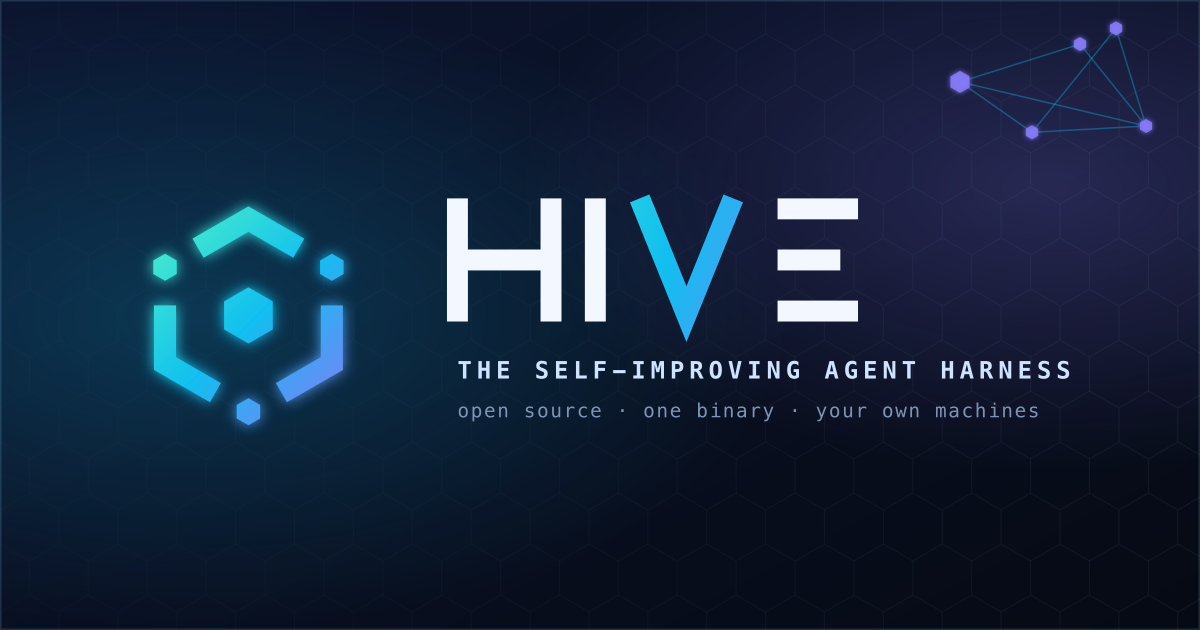
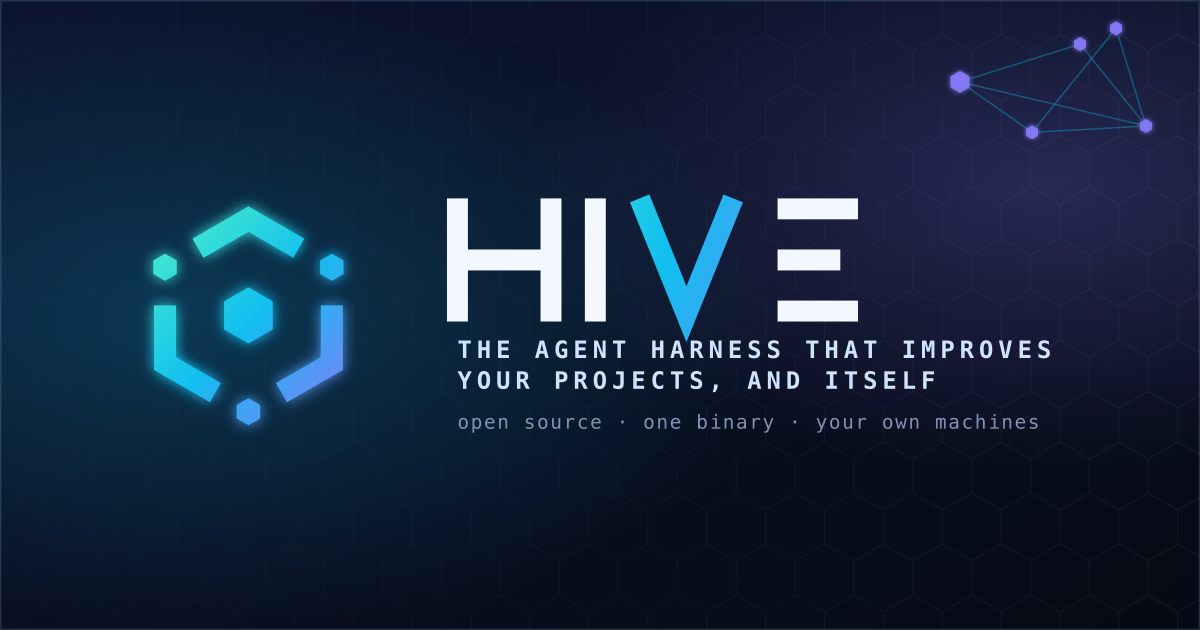
Say Hive improves the projects it works on, and name automations (TASK-127)
The opening of the README, the site and docs/faq.md / docs/concepts.md said
Hive "improves itself". It improves every project it works on, its own
source among them, and keeps standing work as automations.

- tagline: "The agent harness that improves your projects, and itself"
  (README, site hero, footer, home title, logo alt, brand.py lockup)
- the one sentence names tasks, automations and per-project improvement
- README "What Hive is" and the site's pillars name tasks, PR delivery,
  automations, role leads, self-improvement and many machines, each linking
  its page; the self-improvement block opens by saying the loop improves the
  project Hive works on and runs on Hive itself
- the site FAQ, /rsi/ description and docs/faq.md say the same
- scripts/brand.py draws the new two-row tagline; web/site/public/og.png
  regenerated. .github/assets/hive-logo.svg and social-preview.png are the
  owner's: run `python3 scripts/brand.py` and commit them.

Hive-Agent: vesper-90
Hive-Job: job-20261126T045615Z-ead54e
Hive-Executor: local

Changed region(s): [[0.37, 0.5429, 0.8942, 0.6937]]

diff --git a/web/site/src/app/page.tsx b/web/site/src/app/page.tsx
@@ -4,16 +4,18 @@ import {
   ArrowRightIcon,
   ArrowUpRightIcon,
   BookOpenIcon,
+  CalendarClockIcon,
   DatabaseIcon,
   DownloadIcon,
   GitPullRequestIcon,
   InboxIcon,
   LockIcon,
+  MessagesSquareIcon,
   NetworkIcon,
   RefreshCwIcon,
   ScaleIcon,
   ScrollTextIcon,
-  SquareTerminalIcon,
+  UserCogIcon,
 } from "lucide-react";
 import type { ReactNode } from "react";
 import { Frame } from "@/components/chrome";
@@ -32,16 +34,37 @@ export const metadata: Metadata = pageMetadata(PAGES.home);
 
 const PILLARS = [
   {
-    icon: SquareTerminalIcon,
-    title: "A harness of its own",
-    text: "Every agent runs on Hive's own harness: a tool loop with limits, deny rules, hooks, MCP servers, skills, helpers and sub-sessions. GitHub Copilot is the default model provider. OpenAI, Anthropic, Gemini and ten OpenAI-compatible vendors take a key, and local servers need none.",
-    href: PAGES.harness.path,
-    more: "How an agent runs",
+    icon: MessagesSquareIcon,
+    title: "Tasks as conversations",
+    text: "Write what you want in the console. The project's lead agent cuts it into steps and hands them to agents, and the whole task is one conversation you can steer.",
+    href: "/docs/how-to/tasks/",
+    more: "Give a task",
+  },
+  {
+    icon: GitPullRequestIcon,
+    title: "Pull requests with a reviewer",
+    text: "Each step runs in a throwaway clone and must pass the project's test command, when one is set. Finished work becomes a pull request that a review agent merges or hands to you.",
+    href: "/docs/how-to/pull-requests/",
+    more: "Review and merge",
+  },
+  {
+    icon: CalendarClockIcon,
+    title: "Automations",
+    text: "A project keeps its standing work as files under .hive/automations: schedules, checks, watches and skill runs. Every machine that tends the project applies the committed files.",
+    href: "/docs/how-to/schedules/",
+    more: "Run work on a schedule",
+  },
+  {
+    icon: UserCogIcon,
+    title: "Role leads",
+    text: "Give one concern of a project, such as its docs, its tests or its security, an agent of its own that looks after it on a cadence.",
+    href: "/docs/how-to/role-leads/",
+    more: "Seat role leads",
   },
   {
     icon: ScaleIcon,
     title: "Self-improvement under a constitution",
-    text: "Agents post suggestions and vote on them. When you turn the loop on, it builds the top voted one on an experiment branch, measures it and delivers what was kept as a pull request. The constitution is yours: hard stops, paths the loop may never touch, and a kill switch.",
+    text: "Hive improves each project it works on, and runs the same loop on its own source. Agents post suggestions and vote on them. When you turn the loop on, it builds the top voted one on an experiment branch, measures it and delivers what was kept as a pull request. The constitution is yours: hard stops, paths the loop may never touch, and a kill switch.",
     href: PAGES.rsi.path,
     more: "How the loop works",
   },
@@ -186,7 +209,7 @@ export default function Home() {
             <HiveMark className="mark-sweep mark-glow size-16 sm:size-20" draw />
             <p className="mt-8 font-mono text-xs font-medium tracking-[0.18em] text-teal uppercase">Open source · MIT · macOS, Linux and WSL</p>
             <h1 id="hero-title" className="mt-4 text-[2.3rem] leading-[1.08] font-semibold tracking-tight text-balance sm:text-6xl sm:leading-[1.05]">
-              The <span className="text-brand whitespace-nowrap">self-improving</span> agent harness.
+              The agent harness that <span className="text-brand">improves your projects</span>, and itself.
             </h1>
             <p className="mt-6 max-w-xl text-lg leading-relaxed text-pretty text-muted-foreground">{SITE.sentence}</p>
             <div className="mt-8 max-w-xl">
@@ -245,13 +268,17 @@ export default function Home() {
         <div className="mx-auto max-w-6xl px-5 py-20 sm:px-8">
           <div className="max-w-2xl">
             <Eyebrow>What it is</Eyebrow>
-            <Heading id="pillars-title">Three things in one binary.</Heading>
+            <Heading id="pillars-title">One binary for the whole of a project&apos;s work.</Heading>
             <p className="mt-4 text-pretty text-muted-foreground">
-              Hive is one binary (<code className="font-mono text-[0.9em]">hive</code>), one SQLite file and one console. You give a project&apos;s lead agent a
-              task and watch the agents work on it.
+              Hive is one binary (<code className="font-mono text-[0.9em]">hive</code>), one SQLite file and one console. Every agent runs on{" "}
+              <Link href={PAGES.harness.path} className="link">
+                Hive&apos;s own harness
+              </Link>
+              : a tool loop with limits, deny rules, hooks, MCP servers, skills, helpers and sub-sessions, on GitHub Copilot by default, a key for another
+              provider, or a local server.
             </p>
           </div>
-          <ul className="mt-12 grid gap-5 lg:grid-cols-3">
+          <ul className="mt-12 grid gap-5 sm:grid-cols-2 lg:grid-cols-3">
             {PILLARS.map((p) => (
               <li key={p.title} className="flex flex-col rounded-card border border-border bg-card p-6 shadow-card">
                 <span className="hex inline-flex h-11 w-[2.4rem] items-center justify-center bg-teal-soft text-teal">

diff --git a/web/site/src/lib/site.ts b/web/site/src/lib/site.ts
@@ -8,10 +8,10 @@ export const SITE = {
   domain: "hivefleet.dev",
   url: "https://hivefleet.dev",
   /** The category line. */
-  tagline: "The self-improving agent harness",
+  tagline: "The agent harness that improves your projects, and itself",
   /** The one sentence every package uses. */
   sentence:
-    "Hive is an open-source harness for coding agents. It runs on your own machine as one binary, improves itself under rules you write, and pairs more machines when the work needs them.",
+    "Hive is an open-source harness for coding agents. It runs on your own machine as one binary. It does the tasks you give it, keeps a project's standing work going with automations, and improves every project it works on, its own source included, under rules you write. It pairs more machines when the work needs them.",
   repo: "https://github.com/lamplitlabs/hive",
   license: "MIT",
   holder: "Lamplit Labs",
@@ -66,11 +66,11 @@ export type SitePage = {
 export const PAGES = {
   home: {
     path: "/",
-    title: "Hive: the self-improving agent harness",
+    title: "Hive: the agent harness that improves your projects",
     description:
-      "An open-source harness for coding agents. One binary on your own machine, self-improvement under rules you write, and more machines when the work needs them.",
+      "An open-source harness for coding agents on your own machine. It does your tasks, runs automations and improves every project it works on, under your rules.",
     nav: "Home",
-    summary: "What Hive is, how a task goes, the self-improvement loop, pairing machines and the questions people ask first.",
+    summary: "What Hive is, how a task goes, automations, role leads, the self-improvement loop, pairing machines and the questions people ask first.",
   },
   install: {
     path: "/install/",
@@ -93,7 +93,7 @@ export const PAGES = {
     path: "/rsi/",
     title: "Self-improvement under a constitution (RSI)",
     description:
-      "How Hive improves itself: agents suggest and vote, a check must fail today and pass with the change, results are measured, and you write the constitution.",
+      "How Hive improves each project it works on, itself included: agents suggest and vote, a check must fail today and pass, and you write the constitution.",
     nav: "Self-improvement",
     summary: "Suggestions, votes, the check that must fail today, experiments, private tests, the archive, the constitution, hard stops and the kill switch.",
   },

diff --git a/web/site/src/lib/faq.ts b/web/site/src/lib/faq.ts
@@ -15,8 +15,8 @@ export const FAQS: readonly FaqEntry[] = [
     a: "Hive is an open-source harness for coding agents. It is one binary (`hive`), one SQLite file (`~/.hive/hive.sqlite`) and one console at `http://127.0.0.1:8765`. You give a project's lead agent a task, the agents do the work in throwaway clones, and the result reaches you as pull requests.",
   },
   {
-    q: "What does self-improving mean?",
-    a: "Agents post suggestions and vote on each other's. A suggestion must name a check that fails on the default branch today and passes with the change, and the runner builds a voted suggestion as an ordinary job that must turn that check from failing to passing. Measured experiments are off until you turn them on (`evolve.loop`). With the loop on, it builds the top voted suggestion on an experiment branch, measures it against the project's fixtures and against private tests kept outside every repository, archives the result and delivers what was kept as a pull request. All of it runs under a constitution that you own.",
+    q: "What does Hive improve, and how?",
+    a: "Every project Hive works on, and Hive's own source, which is one such project. Agents post suggestions and vote on each other's. A suggestion must name a check that fails on the default branch today and passes with the change, and the runner builds a voted suggestion as an ordinary job that must turn that check from failing to passing. Measured experiments are off until you turn them on (`evolve.loop`). With the loop on, it builds the top voted suggestion on an experiment branch, measures it against the project's fixtures and against private tests kept outside every repository, archives the result and delivers what was kept as a pull request. All of it runs under a constitution that you own.",
     more: { label: "How the loop works", href: "/rsi/" },
   },
   {

diff --git a/web/site/src/lib/seo.ts b/web/site/src/lib/seo.ts
@@ -10,7 +10,7 @@ export const OG_IMAGE = {
   width: 1200,
   height: 630,
   type: "image/png",
-  alt: "The Hive mark, a hexagon cut into three brackets around a core with a node in each gap, beside the word HIVE and the line: the self-improving agent harness.",
+  alt: "The Hive mark, a hexagon cut into three brackets around a core with a node in each gap, beside the word HIVE and the line: the agent harness that improves your projects, and itself.",
 } as const;
 
 export const TITLE_MAX = 60;

diff --git a/scripts/brand.py b/scripts/brand.py
@@ -145,10 +145,12 @@ def wordmark(x, y, cap=108, stroke=17, ink="#f3f7ff", accent="url(#gw)", gap=0.3
 
 
 MONO = "ui-monospace, 'SF Mono', SFMono-Regular, Menlo, Consolas, 'Liberation Mono', monospace"
-TAGLINE = "THE SELF-IMPROVING AGENT HARNESS"
+# The line under the word, in two rows: Hive improves the projects it works on,
+# its own source among them (TASK-127).
+TAGLINE = ("THE AGENT HARNESS THAT IMPROVES", "YOUR PROJECTS, AND ITSELF")
 SUBLINE = "open source  \u00b7  one binary  \u00b7  your own machines"
 DESCRIPTION = ("The Hive mark: a hexagon cut into three brackets around a core, with a node in each gap. "
-               "Beside it the word HIVE and the line: the self-improving agent harness.")
+               "Beside it the word HIVE and the line: the agent harness that improves your projects, and itself.")
 
 # The lockup on its own box: the mark, the word, two lines.
 LOCK_W, LOCK_H = 840, 224
@@ -158,8 +160,9 @@ def lockup():
     ms = LOCK_H / 256
     wx = LOCK_H + 72
     word, width = wordmark(wx, 10)
-    text = (f'<text x="{f(wx)}" y="168" fill="#cfe3ff" font-family="{MONO}" font-size="21" font-weight="600" letter-spacing="4.3">{TAGLINE}</text>'
-            f'<text x="{f(wx)}" y="202" fill="#7f93b5" font-family="{MONO}" font-size="17" letter-spacing="1.4">{SUBLINE}</text>')
+    text = "".join(f'<text x="{f(wx)}" y="{150 + 27 * i}" fill="#cfe3ff" font-family="{MONO}" font-size="21" font-weight="600" letter-spacing="4.3">{line}</text>'
+                   for i, line in enumerate(TAGLINE))
+    text += f'<text x="{f(wx)}" y="212" fill="#7f93b5" font-family="{MONO}" font-size="17" letter-spacing="1.4">{SUBLINE}</text>'
     return f'<g transform="scale({f(ms)})" filter="url(#glow)">{mark("url(#gm)")}</g>{word}{text}', wx, width
 
 

diff --git a/README.md b/README.md
@@ -1,13 +1,13 @@
 <p align="center">
-  <img src=".github/assets/hive-logo.svg" alt="Hive: the self-improving agent harness" width="760">
+  <img src=".github/assets/hive-logo.svg" alt="Hive: the agent harness that improves your projects, and itself" width="760">
 </p>
 
 <p align="center">
-  <strong>The self-improving agent harness.</strong>
+  <strong>The agent harness that improves your projects, and itself.</strong>
 </p>
 
 <p align="center">
-  Hive is an open-source harness for coding agents. It runs on your own machine as one binary, improves itself under rules you write, and pairs more machines when the work needs them.
+  Hive is an open-source harness for coding agents. It runs on your own machine as one binary. It does the tasks you give it, keeps a project's standing work going with automations, and improves every project it works on, its own source included, under rules you write. It pairs more machines when the work needs them.
 </p>
 
 <p align="center">
@@ -23,16 +23,29 @@
 
 ## What Hive is
 
-**A harness of its own.** Hive runs coding agents on a harness built into
-the binary: a tool loop with limits, deny rules, hooks, MCP servers, skills,
-helpers and sub-sessions. You give a project's lead agent a task in a
-console that runs on your own machine, watch the agents work on it as a
-conversation, and answer the questions only you can answer. The agents plan
-the work, do it in throwaway clones, test it, and deliver it as pull
-requests that a review agent reads before they merge.
+**Tasks as conversations.** You give a project's lead agent a task in a
+console that runs on your own machine. The lead cuts it into steps and
+hands them to agents, and the whole task is one conversation you can
+steer. [Give a task and steer it](docs/how-to/tasks.md).
 
-**Self-improvement under a constitution.** Between tasks the agents keep
-the project healthy and propose changes to it. This is
+**Pull requests with a reviewer.** The agents do the work in throwaway
+clones and test it. Finished work becomes a pull request that a review
+agent reads, then merges or hands to you.
+[Review and merge the work](docs/how-to/pull-requests.md).
+
+**Automations.** A project keeps its standing work as files under
+`.hive/automations/`: schedules, checks, watches and skill runs, one file
+each. They are reviewed and merged like any other file, and every machine
+that tends the project applies them from the default branch.
+[Run work on a schedule](docs/how-to/schedules.md).
+
+**Role leads.** Give one concern of a project, such as its docs, its
+tests or its security, an agent of its own that looks after it on a
+cadence. [Seat role leads on a project](docs/how-to/role-leads.md).
+
+**Self-improvement under a constitution.** Hive improves each project it
+works on, and runs the same loop on its own source. Between tasks the
+agents keep the project healthy and propose changes to it. This is
 RSI (recursive self-improvement) under rules: agents post suggestions and
 vote on each other's, and a suggestion must name a check that fails on the
 default branch today and passes with the change. When you turn the loop
@@ -42,6 +55,7 @@ repository, archives the result and delivers what was kept as a pull
 request. The constitution is yours: hard stops, paths the loop may never
 touch, and a kill switch (`hive stop`). Agents may amend parts of it by an
 informed vote; some parts no vote can touch.
+[Turn on the self-improvement loop](docs/how-to/self-improvement-loop.md).
 
 **Many machines.** `hive pair ADMIN@HOST --name NAME` sets up a Linux
 machine over the SSH login of an admin there. Any other machine, a Mac
@@ -51,6 +65,10 @@ model login of its own before it takes work;
 [Machines](docs/machines.md) says what each way needs. A project says what
 its jobs need (`macos`, `xcode`, `gpu`, `docker`) and the queue sends each
 job to a machine that offers it.
+
+**A harness of its own.** Every agent runs on a harness built into the
+binary: a tool loop with limits, deny rules, hooks, MCP servers, skills,
+helpers and sub-sessions. [The harness](docs/harness.md).
 
 It is one binary (`hive`), one store (the SQLite file `~/.hive/hive.sqlite`)
 and one console (`http://127.0.0.1:8765`, this computer only). There is no

diff --git a/docs/faq.md b/docs/faq.md
@@ -7,8 +7,10 @@ done, step by step, open the [guides](how-to/README.md).
 ## What is Hive?
 
 An open-source harness for coding agents. It runs on your own machine as
-one binary, improves itself under rules you write, and pairs more machines
-when the work needs them. You give a project's lead agent a task in a
+one binary. It does the tasks you give it, keeps a project's standing work
+going with automations, and improves every project it works on, its own
+source included, under rules you write. It pairs more machines when the
+work needs them. You give a project's lead agent a task in a
 console on your machine. Agents plan it, do it in throwaway clones, test it
 and deliver it as pull requests.
 
@@ -103,8 +105,9 @@ console). Around it Hive adds:
 
 ## What does the loop change on its own, and what waits for me?
 
-The loop is Hive's RSI (recursive self-improvement): agents post
-suggestions, vote, and build what passes.
+The loop is Hive's RSI (recursive self-improvement). It improves each
+project Hive works on, and Hive runs the same loop on its own source:
+agents post suggestions, vote, and build what passes.
 
 Out of the box it does little. The measured experiments are off until you
 turn them on (`evolve.loop` is `0`). That setting is the switch: the program

diff --git a/docs/concepts.md b/docs/concepts.md
@@ -1,8 +1,10 @@
 # Concepts
 
 Hive is an open-source harness for coding agents. It runs on your own
-machine as one binary, improves itself under rules you write, and pairs
-more machines when the work needs them. This page is a short orientation:
+machine as one binary. It does the tasks you give it, keeps a project's
+standing work going with automations, and improves every project it works
+on, its own source included, under rules you write. It pairs more machines
+when the work needs them. This page is a short orientation:
 the words Hive uses and how the parts fit. Each section ends with the page
 that has the detail.
 
